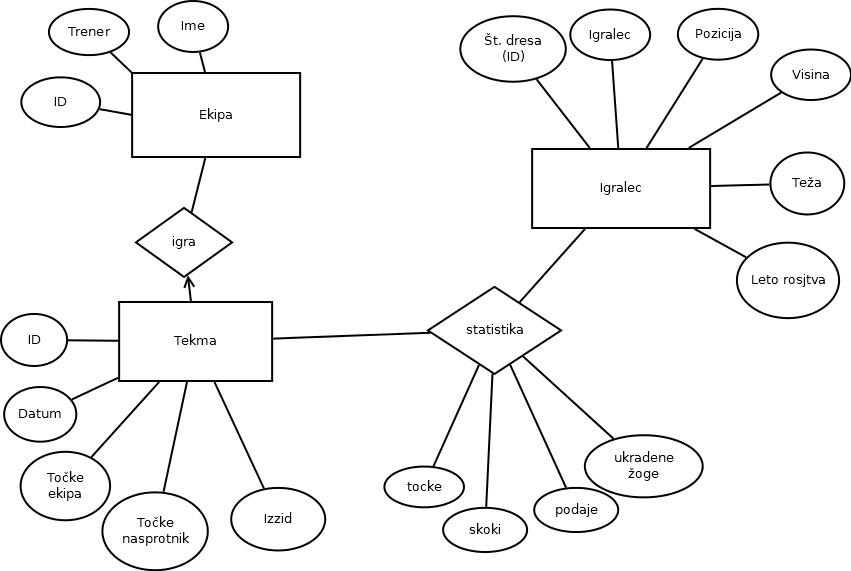
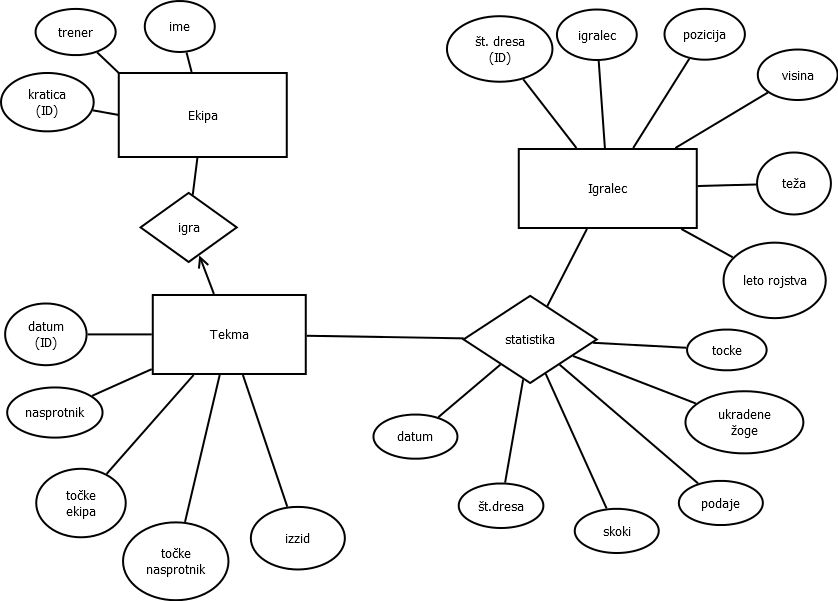
Dopolnjen readme in popravljen ER diagram

diff --git a/README.md b/README.md
@@ -9,7 +9,14 @@ Seminarska naloga pri predmetu **Podatkovne baze 1**
 
 ## Opis
 
-Baza bo hranila podatke o košarkaški ekipi, njihovih igralcih, njihovih točkah, poziciji, ipd. Baza bo namenjena evidenci uspešnosti vsakega od igralcev na bodisi posamezni tekmi, bodisi v celotni sezoni. Tabela se bo z vsako tekmo tekoče sezone posodabljala .
+Baza bo hranila podatke o košarkaški ekipi Miami Heat, njihovih igralcih, njihovih točkah, poziciji, ipd. Baza bo namenjena evidenci uspešnosti vsakega od igralcev na bodisi posamezni tekmi, bodisi v celotni sezoni. Tabela je sestavljena iz podatkov iz prejšnje NBA sezone. Končni izdelek bo spletna storitev, ki bi lahko:
+* Izpisovala podatake o določenem igralcu
+* Izpisovala najboljšega igralca na posamezni tekmi
+* Izpisovala igralce po posameznih kategorijah
+* Izpisovala tekme med dvema datumoma
+* Izpiše podatke, ko je ekipa igrala proti neki drugi določeni ekipi
+* Povprečje vsega
+
 
 ## ER diagram
 
